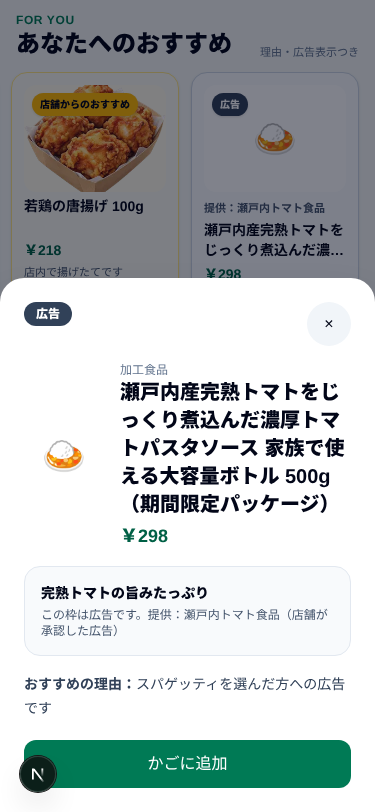
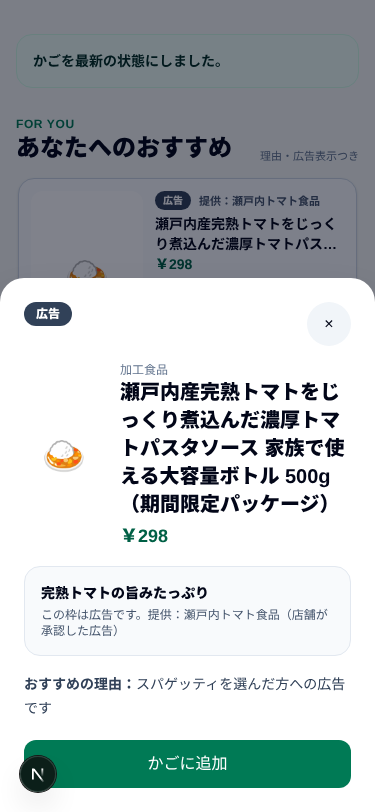
feat(hackday): 提案カードを広告→店舗→個人の順に縦スライドで自動切り替えする #22
Claude-Session: https://claude.ai/code/session_01F3u3zxwR8TKce5WqMsX2Zs

Changed region(s): [[0.0293, 0.0, 0.9093, 0.3387], [0.8213, 0.0616, 0.88, 0.0924], [0.704, 0.0616, 0.7333, 0.0924]]

diff --git a/kago-os/kago-app/src/features/recommendations/suggestion-cards.tsx b/kago-os/kago-app/src/features/recommendations/suggestion-cards.tsx
@@ -25,12 +25,20 @@ const tone = {
   sponsored: { card: "border-slate-300 bg-slate-50", badge: "bg-slate-700 text-white", art: "bg-white" },
 } as const;
 
+export const ROTATE_MS = 4000;
+const SLIDE_HEIGHT = 200;
+const slideOrder: Record<Item["placementType"], number> = { sponsored: 0, store_promo: 1, organic: 2 };
+// Display order of the slides: maker ad, then the store's pick, then personal recommendations (by rank).
+export function orderSlides<T extends Pick<Item, "placementType" | "rank">>(items: T[]) {
+  return [...items].sort((a, b) => slideOrder[a.placementType] - slideOrder[b.placementType] || a.rank - b.rank);
+}
+
 type State = { status: "loading" } | { status: "error"; message: string } | { status: "ready"; data: SavedSelection };
 
 function ProductArt({ item, size }: { item: Item; size: "card" | "detail" }) {
   const image = MENU_PRODUCT_IMAGES[item.product.code];
-  return <div className={`relative grid place-items-center overflow-hidden rounded-xl ${tone[item.placementType].art} ${size === "card" ? "aspect-[4/3] text-4xl" : "size-20 shrink-0 text-4xl"}`}>
-    {image ? <Image src={image} alt="" fill sizes={size === "card" ? "160px" : "80px"} className="object-cover" />
+  return <div className={`relative grid place-items-center overflow-hidden rounded-xl ${tone[item.placementType].art} ${size === "card" ? "h-full text-4xl" : "size-20 shrink-0 text-4xl"}`}>
+    {image ? <Image src={image} alt="" fill sizes={size === "card" ? "112px" : "80px"} className="object-cover" />
       : <span aria-hidden="true">{productIcon(item.product)}</span>}
   </div>;
 }
@@ -41,7 +49,12 @@ export function SuggestionCards() {
   const session = useShoppingSession();
   const [state, setState] = useState<State>({ status: "loading" });
   const [detail, setDetail] = useState<Item | null>(null);
+  const [index, setIndex] = useState(0);
+  const [paused, setPaused] = useState(false);
+  const [hovered, setHovered] = useState(false);
+  const [focused, setFocused] = useState(false);
   const request = useRef<AbortController | null>(null);
+  const shown = useRef<string | null>(null);
   const closeButton = useRef<HTMLButtonElement>(null);
   const version = useRef(cart.version);
 
@@ -54,6 +67,8 @@ export function SuggestionCards() {
       if (controller.signal.aborted || data.visitId !== session.visit!.id) return;
       // A result for an older cart is never shown; the newer cart triggers its own load.
       if (data.cartVersion !== version.current) return;
+      // A new selection starts from its first slide (the ad, if any).
+      if (shown.current !== data.selectionId) { shown.current = data.selectionId; setIndex(0); }
       setState({ status: "ready", data });
     } catch (failure) {
       if (controller.signal.aborted) return;
@@ -80,12 +95,23 @@ export function SuggestionCards() {
     return () => window.removeEventListener("keydown", close);
   }, [detail]);
 
+  // Auto-rotation: one suggestion at a time, sliding up every few seconds (ad → store pick → personal).
+  const slides = state.status === "ready" ? orderSlides(state.data.items) : [];
+  const current = slides.length ? index % slides.length : 0;
+  const running = slides.length > 1 && !paused && !hovered && !focused && !detail;
+  const go = (step: number) => setIndex(value => (value % Math.max(1, slides.length) + step + slides.length) % Math.max(1, slides.length));
+  useEffect(() => {
+    if (!running) return;
+    const timer = window.setInterval(() => { if (!document.hidden) setIndex(value => value + 1); }, ROTATE_MS);
+    return () => window.clearInterval(timer);
+  }, [running, slides.length]);
+
   const inCart = new Set(cart.lines.map(line => line.productId));
   const add = (item: Item) => {
     setDetail(null);
     cart.addProduct({ ...item.product, available: true });
   };
-  const items = state.status === "ready" ? state.data.items : [];
+  const items = slides;
 
   return <section aria-labelledby="suggestions-heading" aria-busy={state.status === "loading"} className="min-w-0">
     <div className="mb-3 flex items-end justify-between gap-2">
@@ -93,9 +119,7 @@ export function SuggestionCards() {
         <h2 id="suggestions-heading" className="text-2xl font-black">あなたへのおすすめ</h2></div>
       <span className="hidden shrink-0 text-[11px] text-slate-500 min-[360px]:inline">理由・広告表示つき</span>
     </div>
-    {state.status === "loading" && <div className="flex gap-3 overflow-hidden" role="status" aria-label="おすすめを読み込んでいます">
-      {[0, 1, 2].map(i => <div key={i} className="h-64 w-40 shrink-0 animate-pulse rounded-2xl bg-slate-200/70" />)}
-    </div>}
+    {state.status === "loading" && <div role="status" aria-label="おすすめを読み込んでいます" className="animate-pulse rounded-2xl bg-slate-200/70" style={{ height: SLIDE_HEIGHT }} />}
     {state.status === "error" && <div role="alert" className="rounded-2xl border border-red-200 bg-red-50 p-4 text-sm text-red-900">
       <p>{state.message}</p>
       <button type="button" onClick={() => { setState({ status: "loading" }); void load(); }} className="mt-3 min-h-11 rounded-xl bg-red-700 px-4 text-sm font-bold text-white">おすすめを再試行</button>
@@ -103,29 +127,52 @@ export function SuggestionCards() {
     {state.status === "ready" && items.length === 0 && <p className="rounded-2xl border border-dashed border-slate-300 bg-white p-5 text-center text-sm text-slate-600">
       いまのかごに合うおすすめはありません。商品をかごに追加すると、関連するおすすめが表示されます。
     </p>}
-    {items.length > 0 && <ul className="-mx-4 flex snap-x gap-3 overflow-x-auto px-4 pb-2 min-[480px]:mx-0 min-[480px]:grid min-[480px]:grid-cols-3 min-[480px]:overflow-visible min-[480px]:px-0" aria-label="おすすめ商品">
-      {items.map(item => {
-        const label = suggestionLabel(item);
-        const added = inCart.has(item.product.productId);
-        return <li key={item.selectionItemId} className="w-[10.5rem] shrink-0 snap-start min-[480px]:w-auto">
-          <article aria-label={`${label}：${item.product.name}`} className={`flex h-full flex-col rounded-2xl border p-3 shadow-sm ${tone[item.placementType].card}`}>
-            <div className="relative">
-              <ProductArt item={item} size="card" />
-              <span className={`absolute left-2 top-2 rounded-full px-2 py-1 text-[10px] font-black shadow-sm ${tone[item.placementType].badge}`}>{label}</span>
-            </div>
-            {item.sponsor && <p className="mt-2 text-[11px] font-bold text-slate-600">提供：{item.sponsor.makerName}</p>}
-            <h3 className="mt-1 line-clamp-2 min-h-10 break-words text-sm font-bold leading-5" title={item.product.name}>{item.product.name}</h3>
-            <p className="mt-1 text-sm font-black text-emerald-800">{yen.format(item.product.price)}</p>
-            <p className="mt-1 line-clamp-3 flex-1 text-[11px] leading-4 text-slate-600">{item.reasonText}</p>
-            <div className="mt-3 grid gap-2">
-              <button type="button" disabled={!cart.canEdit || added} onClick={() => add(item)} aria-label={`${item.product.name}をかごに追加（${label}）`}
-                className="min-h-11 rounded-xl bg-slate-950 px-2 text-xs font-black text-white disabled:opacity-40">{added ? "かごに追加済み" : "かごに追加"}</button>
-              <button type="button" onClick={() => setDetail(item)} aria-label={`${item.product.name}の詳細（${label}）`} className="min-h-11 text-xs font-bold text-emerald-800 underline">詳細を見る</button>
-            </div>
-          </article>
-        </li>;
-      })}
-    </ul>}
+    {items.length > 0 && <div role="group" aria-roledescription="カルーセル" aria-label="おすすめ商品" className="relative"
+      onMouseEnter={() => setHovered(true)} onMouseLeave={() => setHovered(false)}
+      onFocusCapture={() => setFocused(true)} onBlurCapture={event => { if (!event.currentTarget.contains(event.relatedTarget as Node | null)) setFocused(false); }}>
+      <div className="overflow-hidden rounded-2xl" style={{ height: SLIDE_HEIGHT }}>
+        <ul className="motion-safe:transition-transform motion-safe:duration-500 motion-safe:ease-out" style={{ transform: `translateY(-${current * SLIDE_HEIGHT}px)` }}>
+          {slides.map((item, index) => {
+            const label = suggestionLabel(item);
+            const added = inCart.has(item.product.productId);
+            const visible = index === current;
+            return <li key={item.selectionItemId} aria-roledescription="スライド" aria-label={`${index + 1} / ${slides.length}`} aria-hidden={!visible} inert={!visible}
+              style={{ height: SLIDE_HEIGHT }} className="p-0.5">
+              <article aria-label={`${label}：${item.product.name}`} className={`flex h-full gap-3 rounded-2xl border p-3 shadow-sm ${tone[item.placementType].card}`}>
+                <div className="w-28 shrink-0"><ProductArt item={item} size="card" /></div>
+                <div className="flex min-w-0 flex-1 flex-col">
+                  <div className="flex flex-wrap items-center gap-x-2 gap-y-1">
+                    <span className={`rounded-full px-2 py-0.5 text-[10px] font-black ${tone[item.placementType].badge}`}>{label}</span>
+                    {item.sponsor && <span className="text-[11px] font-bold text-slate-600">提供：{item.sponsor.makerName}</span>}
+                  </div>
+                  <h3 className="mt-1 line-clamp-2 break-words text-sm font-bold leading-5" title={item.product.name}>{item.product.name}</h3>
+                  <p className="text-sm font-black text-emerald-800">{yen.format(item.product.price)}</p>
+                  <p className="mt-0.5 line-clamp-2 text-[11px] leading-4 text-slate-600">{item.reasonText}</p>
+                  <div className="mt-auto flex gap-2 pt-1">
+                    <button type="button" disabled={!cart.canEdit || added} onClick={() => add(item)} aria-label={`${item.product.name}をかごに追加（${label}）`}
+                      className="min-h-11 flex-1 rounded-xl bg-slate-950 px-2 text-xs font-black text-white disabled:opacity-40">{added ? "かごに追加済み" : "かごに追加"}</button>
+                    <button type="button" onClick={() => setDetail(item)} aria-label={`${item.product.name}の詳細（${label}）`}
+                      className="min-h-11 shrink-0 px-1 text-xs font-bold text-emerald-800 underline">詳細</button>
+                  </div>
+                </div>
+              </article>
+            </li>;
+          })}
+        </ul>
+      </div>
+      {slides.length > 1 && <div className="mt-2 flex items-center justify-between gap-2">
+        <div className="flex items-center gap-1.5" aria-hidden="true">
+          {slides.map((item, index) => <span key={item.selectionItemId} className={`h-1.5 rounded-full transition-all ${index === current ? "w-5 bg-emerald-700" : "w-1.5 bg-slate-300"}`} />)}
+        </div>
+        <p className="sr-only" aria-live={running ? "off" : "polite"}>{current + 1} / {slides.length}：{suggestionLabel(slides[current])}</p>
+        <div className="flex items-center gap-1">
+          <button type="button" onClick={() => go(-1)} aria-label="前のおすすめ" className="grid size-11 place-items-center rounded-full text-lg text-slate-700">↑</button>
+          <button type="button" onClick={() => go(1)} aria-label="次のおすすめ" className="grid size-11 place-items-center rounded-full text-lg text-slate-700">↓</button>
+          <button type="button" onClick={() => setPaused(value => !value)} aria-pressed={paused}
+            aria-label={paused ? "おすすめの自動切り替えを再開" : "おすすめの自動切り替えを停止"} className="min-h-11 rounded-full px-3 text-xs font-bold text-slate-700 underline">{paused ? "再生" : "停止"}</button>
+        </div>
+      </div>}
+    </div>}
     {detail && <div className="fixed inset-0 z-50 flex items-end justify-center sm:items-center">
       <button type="button" tabIndex={-1} className="absolute inset-0 bg-slate-950/50" onClick={() => setDetail(null)} aria-label="詳細を閉じる" />
       <section role="dialog" aria-modal="true" aria-labelledby="suggestion-detail-heading" className="relative max-h-[90dvh] w-full max-w-md overflow-y-auto rounded-t-3xl bg-white p-6 shadow-2xl sm:rounded-3xl">

diff --git a/docs/specs/app-recommendation-selection.md b/docs/specs/app-recommendation-selection.md
@@ -76,10 +76,13 @@ DATA-01の配信期間（PL1は2026-12-01まで）に依存する確認が含ま
 - 各カードから「かごに追加」「詳細を見る」へ進める。追加後はかごの版が変わり、選定を取り直す。かご内の商品は「かごに追加済み」と表示する。
 - 読込中はカードの枠を表示し、失敗時は「おすすめを再試行」、候補がないときは「いまのかごに合うおすすめはありません」と理由を表示する。広告がないときは空枠を作らず、ある枠だけを表示する。
 - 表示中のかごより古い版の選定結果は表示しない（APP-08の完全な更新制御は別Issue）。保存前にかごが変わった場合（`input_changed`）は1回だけ取り直す。
-- スマホでは横スクロールのカード列（1枚 10.5rem）、480px以上は3列。長い商品名は2行で省略し、全文は`title`と詳細画面で確認できる。
+- 1枠ずつ縦にスライドして切り替える（約4秒ごと）。表示順は「メーカー広告→店舗からのおすすめ→個人のおすすめ（順位順）」。保存された`slot`・`rank`は変えず、表示の順番だけを並べ替える。
+- 自動切り替えは、カードにポインターがある間・フォーカス中・詳細を開いている間・タブが非表示の間は止まる。「↑」「↓」で前後へ移動、「停止／再生」で自動切り替えを止められる（動き続ける表示を止める手段の提供）。動きを減らす設定の端末ではスライドのアニメーションを省く。
+- 枠が1つのときは切り替えず、操作ボタンも表示しない。読み上げでは現在の1枠だけを公開し、手動で切り替えたときに「何枚目／全何枚：種類」を伝える。
+- 長い商品名は2行で省略し、全文は`title`と詳細画面で確認できる。
 - カードからの追加は現在`source = manual`で記録する。選定枠IDに結び付けた表示・クリック・追加の記録（`recommendation_*`、`source = recommendation`）はAPP-07。
 - 広告画像（COM-03のStorage）はカードに表示していない。商品画像（`MENU_PRODUCT_IMAGES`）または商品アイコンを使う。
 
-確認：`pnpm test:suggestions:e2e`（ブラウザ6ケース）。実API（店舗販促の表示→詳細→追加→空表示）、3種類・長い商品名・広告主の表示と375px幅での崩れなし、通信失敗→再試行、古い版の結果を表示しない、320px幅の空表示。
+確認：`pnpm test:suggestions:e2e`（ブラウザ8ケース）。実API（店舗販促の表示→詳細→追加→空表示）、広告→店舗→個人の順のスライドと前後移動、約4秒の自動切り替えとポインター・フォーカス・停止ボタンでの停止、広告主・長い商品名の表示と375px幅での崩れなし、通信失敗→再試行、古い版の結果を表示しない、320px幅の空表示。
 
-画面記録（架空データ）：[3種類](../images/app06-three-types-mobile.png)、[広告の詳細](../images/app06-ad-detail-mobile.png)、[通信失敗](../images/app06-error-mobile.png)、[候補なし・320px](../images/app06-empty-320.png)。
+画面記録（架空データ・375px幅）：[広告](../images/app06-slide-ad-mobile.png)、[店舗からのおすすめ](../images/app06-slide-store-mobile.png)、[個人のおすすめ](../images/app06-slide-organic-mobile.png)、[広告の詳細](../images/app06-ad-detail-mobile.png)、[通信失敗](../images/app06-error-mobile.png)、[候補なし・320px](../images/app06-empty-320.png)。
